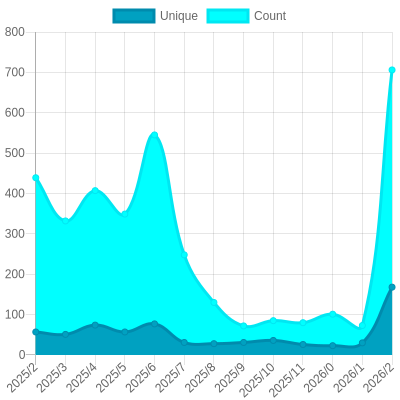
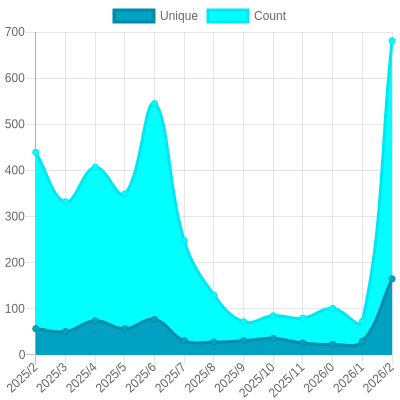
Update views

diff --git a/readme/734469248/year.md b/readme/734469248/year.md
@@ -23,10 +23,10 @@
 			<code>2025/3/1</code>
 		</td>
 		<td>
-			<code>168</code>
+			<code>165</code>
 		</td>
 		<td>
-			<code>706</code>
+			<code>681</code>
 		</td>
 	</tr>
 	<tr>
@@ -164,7 +164,7 @@
 </table>
 
 </details>
-<small><i>Last updated on 2025/3/20 6:26 AM UTC</i></small>
+<small><i>Last updated on 2025/3/20 12:36 PM UTC</i></small>
 
 ## ✂Copy and 📋 Paste
 ### SVG Badge

diff --git a/README.md b/README.md
@@ -117,7 +117,7 @@ The project created and maintained by [gayanvoice](https://github.com/gayanvoice
 	</tr>
 </table>
 
-<small><i>Last updated on 2025/3/20 6:27 AM UTC</i></small>
+<small><i>Last updated on 2025/3/20 12:37 PM UTC</i></small>
 
 ## ✂Copy and 📋 Paste
 ### Total Views Badge

diff --git a/readme/702365547/year.md b/readme/702365547/year.md
@@ -164,7 +164,7 @@
 </table>
 
 </details>
-<small><i>Last updated on 2025/3/20 6:26 AM UTC</i></small>
+<small><i>Last updated on 2025/3/20 12:36 PM UTC</i></small>
 
 ## ✂Copy and 📋 Paste
 ### SVG Badge

diff --git a/readme/731950256/year.md b/readme/731950256/year.md
@@ -164,7 +164,7 @@
 </table>
 
 </details>
-<small><i>Last updated on 2025/3/20 6:26 AM UTC</i></small>
+<small><i>Last updated on 2025/3/20 12:36 PM UTC</i></small>
 
 ## ✂Copy and 📋 Paste
 ### SVG Badge

diff --git a/readme/740708103/year.md b/readme/740708103/year.md
@@ -164,7 +164,7 @@
 </table>
 
 </details>
-<small><i>Last updated on 2025/3/20 6:27 AM UTC</i></small>
+<small><i>Last updated on 2025/3/20 12:36 PM UTC</i></small>
 
 ## ✂Copy and 📋 Paste
 ### SVG Badge

diff --git a/readme/744224399/year.md b/readme/744224399/year.md
@@ -164,7 +164,7 @@
 </table>
 
 </details>
-<small><i>Last updated on 2025/3/20 6:27 AM UTC</i></small>
+<small><i>Last updated on 2025/3/20 12:37 PM UTC</i></small>
 
 ## ✂Copy and 📋 Paste
 ### SVG Badge

diff --git a/readme/753858268/year.md b/readme/753858268/year.md
@@ -164,7 +164,7 @@
 </table>
 
 </details>
-<small><i>Last updated on 2025/3/20 6:27 AM UTC</i></small>
+<small><i>Last updated on 2025/3/20 12:37 PM UTC</i></small>
 
 ## ✂Copy and 📋 Paste
 ### SVG Badge
